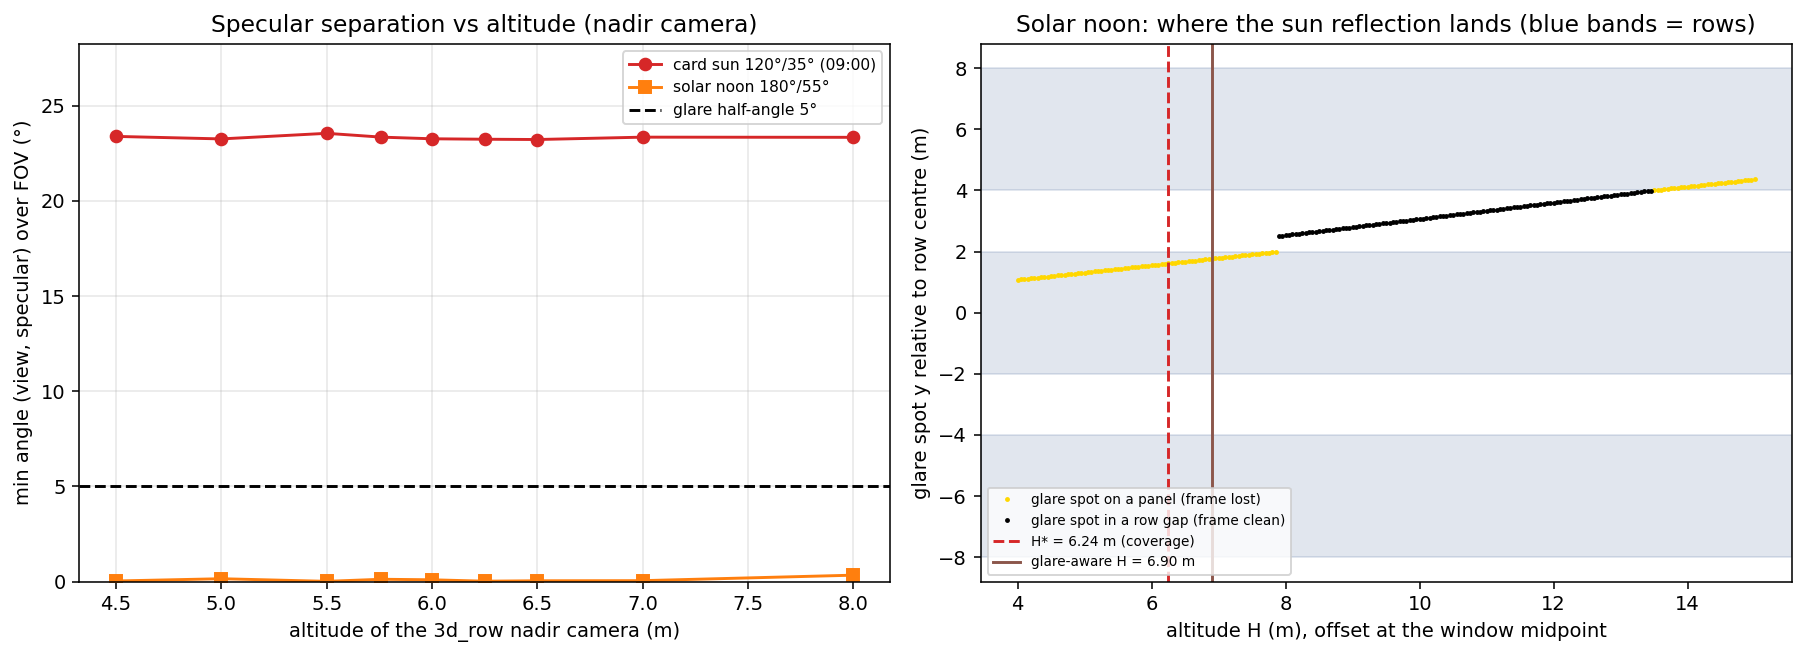
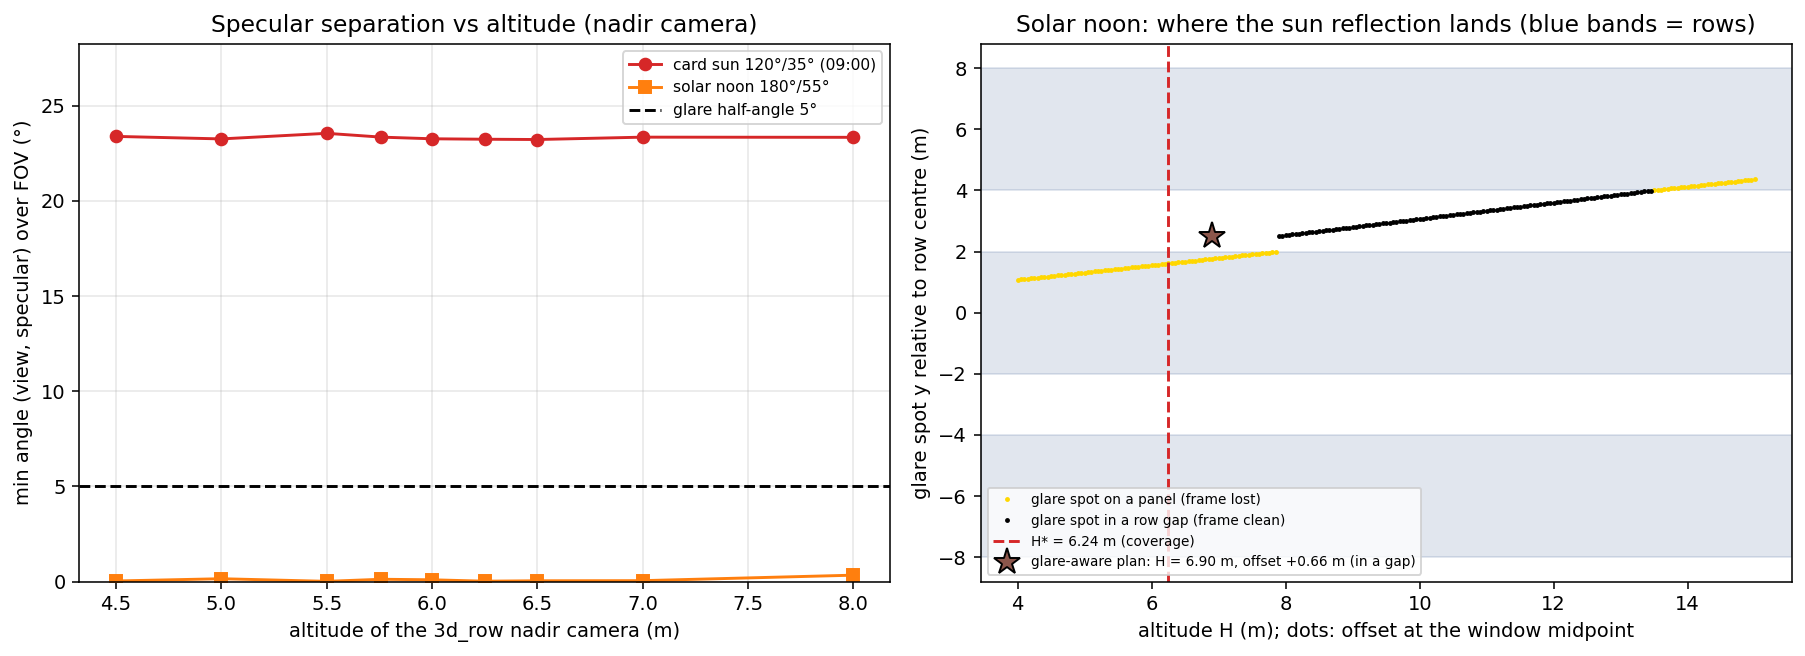
Fix S073 3D Solar Panel Thermal Inspection: address review follow-ups

Changed region(s): [[0.6205, 0.8232, 0.8066, 0.8841], [0.6205, 0.9451, 0.8997, 0.9756], [0.6515, 0.3354, 0.6825, 0.3963]]

diff --git a/src/04_industrial_agriculture/3d/s073_3d_solar_thermal.py b/src/04_industrial_agriculture/3d/s073_3d_solar_thermal.py
@@ -578,6 +578,15 @@ def run_simulation():
         noon_spot.append((H, y_any - ROW_YC[5], bool(hit[0])))
     alt_band = {'card': [min_spec_angle_alt(H, card_sun) for H in H_SWEEP],
                 'noon': [min_spec_angle_alt(H, noon_sun) for H in H_SWEEP]}
+    plan_spot = None
+    if ga_noon is not None:                      # where the reflection lands for the actual plan
+        D = np.array([[40.0, ROW_YC[5] + ga_noon[1], ga_noon[0]]])
+        hit, ys, _, _ = glare_spot(D, gnoon)
+        y_any = ys[0] if hit[0] else D[0, 1] + ga_noon[0] / (-gnoon[2]) * gnoon[1]
+        plan_spot = (ga_noon[0], float(y_any - ROW_YC[5]), bool(hit[0]))
+    # card rule with the card's tilt-normal gimbal instead of the nadir camera
+    r_low = (H_SCAN_CARD - H_EDGE / 2) / N_HAT[2]
+    geo_low_gimbal = dict(coverage(make_plan('3d_gimbal', H=r_low)), R=r_low)
     # Ablation: keep the 2D altitude (5 m) and only move the strips cross-track
     offs = np.round(np.arange(-3.0, 3.0 + 1e-9, 0.02), 3)
     D5 = np.stack([np.full(len(offs), 40.0), ROW_YC[5] + offs, np.full(len(offs), ALT_2D)], 1)
@@ -595,6 +604,7 @@ def run_simulation():
                 hsweep=hsweep, msweep=msweep, tod=tod, noon_sun=noon_sun, ga_noon=ga_noon,
                 noon_plans=noon_plans, noon=noon, noon_geo=noon_geo, noon_ga_decl=noon_ga_decl,
                 noon_spot=noon_spot, alt_band=alt_band, off5=off5, win_sun=win_sun, winter=winter,
+                plan_spot=plan_spot, geo_low_gimbal=geo_low_gimbal,
                 winter_shadow=winter_shadow, runtime=time.time() - t0)
 
 
@@ -734,10 +744,12 @@ def plot_glare_band(res, out_dir):
     ax.plot(H[hit], off[hit], '.', color='gold', ms=3, label='glare spot on a panel (frame lost)')
     ax.plot(H[~hit], off[~hit], '.', color='k', ms=3, label='glare spot in a row gap (frame clean)')
     ax.axvline(h_star(), color='tab:red', ls='--', label=f'H* = {h_star():.2f} m (coverage)')
-    if res['ga_noon'] is not None:
-        ax.axvline(res['ga_noon'][0], color='tab:brown', ls='-',
-                   label=f'glare-aware H = {res["ga_noon"][0]:.2f} m')
-    ax.set_xlabel('altitude H (m), offset at the window midpoint')
+    if res['plan_spot'] is not None:
+        hp, op, hitp = res['plan_spot']
+        ax.plot(hp, op, '*', color='tab:brown', ms=14, mec='k',
+                label=f'glare-aware plan: H = {hp:.2f} m, offset {res["ga_noon"][1]:+.2f} m '
+                      f'({"on a panel" if hitp else "in a gap"})')
+    ax.set_xlabel('altitude H (m); dots: offset at the window midpoint')
     ax.set_ylabel('glare spot y relative to row centre (m)')
     ax.set_title('Solar noon: where the sun reflection lands (blue bands = rows)')
     ax.legend(fontsize=7, loc='lower left')
@@ -1009,6 +1021,16 @@ def report(res):
           f"({100 * (1 - t['3d_row'] / t['2d_card']):.1f}%); vs 2d_row {t['2d_row']:.1f} s: "
           f"{t['3d_row'] - t['2d_row']:+.1f} s; 3d_gimbal {t['3d_gimbal']:.1f} s; card_low {t['card_low']:.1f} s "
           f"({t['card_low'] / t['2d_card']:.2f} x 2d_card)")
+    gg = res['geo_low_gimbal']
+    print(f"  Card rule with the tilt-normal gimbal at z = {H_SCAN_CARD:.3f} m (stand-off R = {gg['R']:.3f} m): "
+          f"imaged unblurred {100 * gg['frac']:.2f}%, v_max abeam {gg['v_max']:.3f} m/s, blur abeam at 1 m/s "
+          f"{V_NOM * T_EXP / (gg['R'] * IFOV):.2f} px (limit {BLUR_MAX})")
+    if res['plan_spot'] is not None:
+        print(f"  Glare-aware noon plan (H {res['plan_spot'][0]:.2f} m, offset {res['ga_noon'][1]:+.2f} m): reflection "
+              f"{res['plan_spot'][1]:+.2f} m from the row centre, " + ('on a panel' if res['plan_spot'][2] else 'in a gap'))
+    print(f'  Detection ceiling: the weakest hot spot reads ({DT_HOT_MIN} x {ATTEN:.4f} - {DT_THRESH}) / {T_NOISE_STD} = '
+          f'{(DT_HOT_MIN * ATTEN - DT_THRESH) / T_NOISE_STD:.2f} sigma above the threshold in every frame, so an imaged, '
+          f'unblurred hot spot is always detected')
     mu, sd, n8 = _stats(res['mc_low_slow'])
     print(f"  Card rule at its blur-limited speed 0.9 v_max = {res['v_low']:.3f} m/s: imaged "
           f"{100 * res['geo_low_slow']['frac']:.2f}%, detection (anywhere) {100 * mu:.1f} ± {100 * sd:.1f}%, "

diff --git a/outputs/04_industrial_agriculture/3d/s073_3d_solar_thermal/README.md b/outputs/04_industrial_agriculture/3d/s073_3d_solar_thermal/README.md
@@ -85,7 +85,7 @@ conda activate drones
 python src/04_industrial_agriculture/3d/s073_3d_solar_thermal.py
 ```
 
-Runtime ≈ 2–3 min (measured while other simulations shared the machine). Two single-threaded runs and one run with default threading printed byte-identical output and produced byte-identical PNG and GIF files.
+Runtime 55–56 s over three runs. Two single-threaded runs and one run with default threading printed byte-identical output and produced byte-identical PNG and GIF files.
 
 ---
 
@@ -167,11 +167,12 @@ Paired (frame rule): the glare-aware plan beats `3d_row` at H*, `2d_row` and `2d
 
 **Key findings**
 
-- **Tilt makes the 2D altitude too low for row-aligned passes.** A 5 m pass over the row centre images 85.26 % of the tilted panel surface and misses 28 of 400 hot spots placed anywhere on the panels. Raising the pass to the planned H* = 6.244 m and shifting it 0.386 m north images 100 % and finds every hot spot on 50/50 seeds, in the same 854.0 s. The altitude sweep shows the threshold: full coverage from 5.76 m.
+- **Tilt makes the 2D altitude too low for row-aligned passes.** A 5 m pass over the row centre images 85.26 % of the tilted panel surface and misses 28 of 400 hot spots placed anywhere on the panels. Raising the pass to the planned H* = 6.244 m and shifting it 0.386 m north images 100 % and finds every hot spot on 50/50 seeds, in the same 854.0 s. The altitude sweep shows the threshold: full coverage from 5.76 m. The 3D plans fly **one constant altitude** for the whole mission: the gain is a different fixed altitude plus an offset derived from the tilt geometry, not altitude variation in flight (the vertical moves are the card rule's transits only).
+- **Detection follows coverage here.** The weakest hot spot reads 3.38 σ above the threshold in every frame, so any imaged, unblurred hot spot is detected; detection is a ceiling effect of coverage. It separates the 3D plans from the 2D plans, but it cannot separate plans that both image 100 %.
 - **The 3D plan also beats the 2D card lawnmower**, which images only 94.67 % of the tilted surface (its footprint is narrower at panel height) and takes 45.9 % longer.
 - **The card's altitude rule fails.** At the card sun no altitude is glare-limited, so "lowest glare-free altitude" means 2.865 m, 1 m over the top edges. There the image moves 1/ρ times faster: v_max is 0.306 m/s, every frame at 1.0 m/s is blurred, and the card rule detects 1.0 %; flown slowly enough it needs 16.4 × the mission time.
-- **The tilt-normal gimbal changes the resolution, not the detection.** It images the same 100 % with a more uniform GSD (mean 2.44, max 2.66 cm, against mean 2.58, max 3.84 cm for the nadir pass) and a higher blur limit (1.761 vs 1.414 m/s); detection is tied on all 50 seeds.
-- **Glare and shadow are time-of-day effects.** At 35° N they do not occur at the card's 09:00 sun. Near noon the reflection enters the FOV of both camera modes; there, the glare-aware altitude of 6.90 m with a +0.66 m offset puts it into the row gap and restores 100 % detection, while every fixed-altitude plan drops to 0.5–20.0 %. Winter shadows (65 of 400 hot spots at 09:00) cannot be removed by any flight plan.
+- **The tilt-normal gimbal gives a more uniform resolution.** It images the same 100 % with a more uniform GSD (mean 2.44, max 2.66 cm, against mean 2.58, max 3.84 cm for the nadir pass) and a higher blur limit (1.761 vs 1.414 m/s). Detection is tied on all 50 seeds, but that tie is the coverage ceiling above (both plans image 100 %), not evidence that the gimbal does not matter for detection.
+- **Glare and shadow are time-of-day effects.** At 35° N they do not occur at the card's 09:00 sun. Near noon the reflection enters the FOV of both camera modes. **If a frame with the sun's reflection on a panel is lost (the frame-wise rule)**, the glare-aware altitude of 6.90 m with a +0.66 m offset puts the reflection into the row gap (+2.50 m from the row centre) and keeps 100 % detection, while every fixed-altitude plan drops to 0.5–20.0 %. Under the card's per-point glare rule the same fixed plans keep 93.0–100 %, so this result depends on how glare spoils a thermal frame. Winter shadows (65 of 400 hot spots at 09:00) cannot be removed by any flight plan.
 
 ### Figures
 
@@ -187,7 +188,7 @@ Paired (frame rule): the glare-aware plan beats `3d_row` at H*, `2d_row` and `2d
 
 ![Altitude profile](./altitude_profile.png)
 
-**Glare band**: left, the smallest angle between any viewing direction and the specular direction against altitude (card sun: about 23°, never below 5°; noon: 0°); right, where the noon reflection lands for the `3d_row` pass at the window-midpoint offset (yellow = on a panel, black = in a gap):
+**Glare band**: left, the smallest angle between any viewing direction and the specular direction against altitude (card sun: about 23°, never below 5°; noon: 0°); right, where the noon reflection lands for the `3d_row` pass at the window-midpoint offset (dots; yellow = on a panel, black = in a gap) and, as a star, for the glare-aware plan at its actual offset (+0.66 m, reflection in a gap):
 
 ![Glare band](./glare_band.png)
 
@@ -223,6 +224,7 @@ Paired (frame rule): the glare-aware plan beats `3d_row` at H*, `2d_row` and `2d
 | Per-strip glare-free altitude band at the card sun | implemented (0.1 m search); it returns 2.865 m for every strip | at the card sun the specular direction is ≥ 23° outside the FOV at every altitude; the band is unbounded below |
 | Glare per panel point (card) | frame-wise rule as the primary model; the card's point rule run as an ablation | a sun reflection in a thermal frame spoils the frame; the conclusion at noon depends on this choice and both are printed |
 | Gimbal pitch and footprint formulas ($\beta_{cam}$, $b_{foot} = a_{foot}\cos\alpha$) | tilt-normal pointing = boresight $-\hat{\mathbf n}$ from a point on the normal through the row centre; footprint by ray tracing | with the boresight on the normal the footprint on the panel is square, not foreshortened |
+| Card rule with the tilt-normal gimbal | card rule flown with a nadir camera | with the gimbal at the same 2.865 m (stand-off 2.132 m from the panel) the blur abeam at 1 m/s is 3.87 px (limit 2.5) and the imaged unblurred surface is 0.00 % (printed), so the rule fails with either camera |
 | Strip spacing $d = 2b_{foot}(1-\rho)$ | card rule: spacing 0.8 × footprint at mid-panel height; 3D plans: one strip per row with altitude from the coverage condition | the row gaps need no imaging; one pass per row is enough once the altitude is right |
 | Fixed sun, "mission planner schedules the inspection time" | sun from solar geometry at 35° N (09:00 equinox = 119.8°/35.4° ≈ card sun), three dates | needed for the shadow time series; latitude and dates are added parameters |
 | Hot spot at the panel centre | centre (card) and anywhere on the panel (2D base's second model) | the centre model cannot discriminate between plans |
